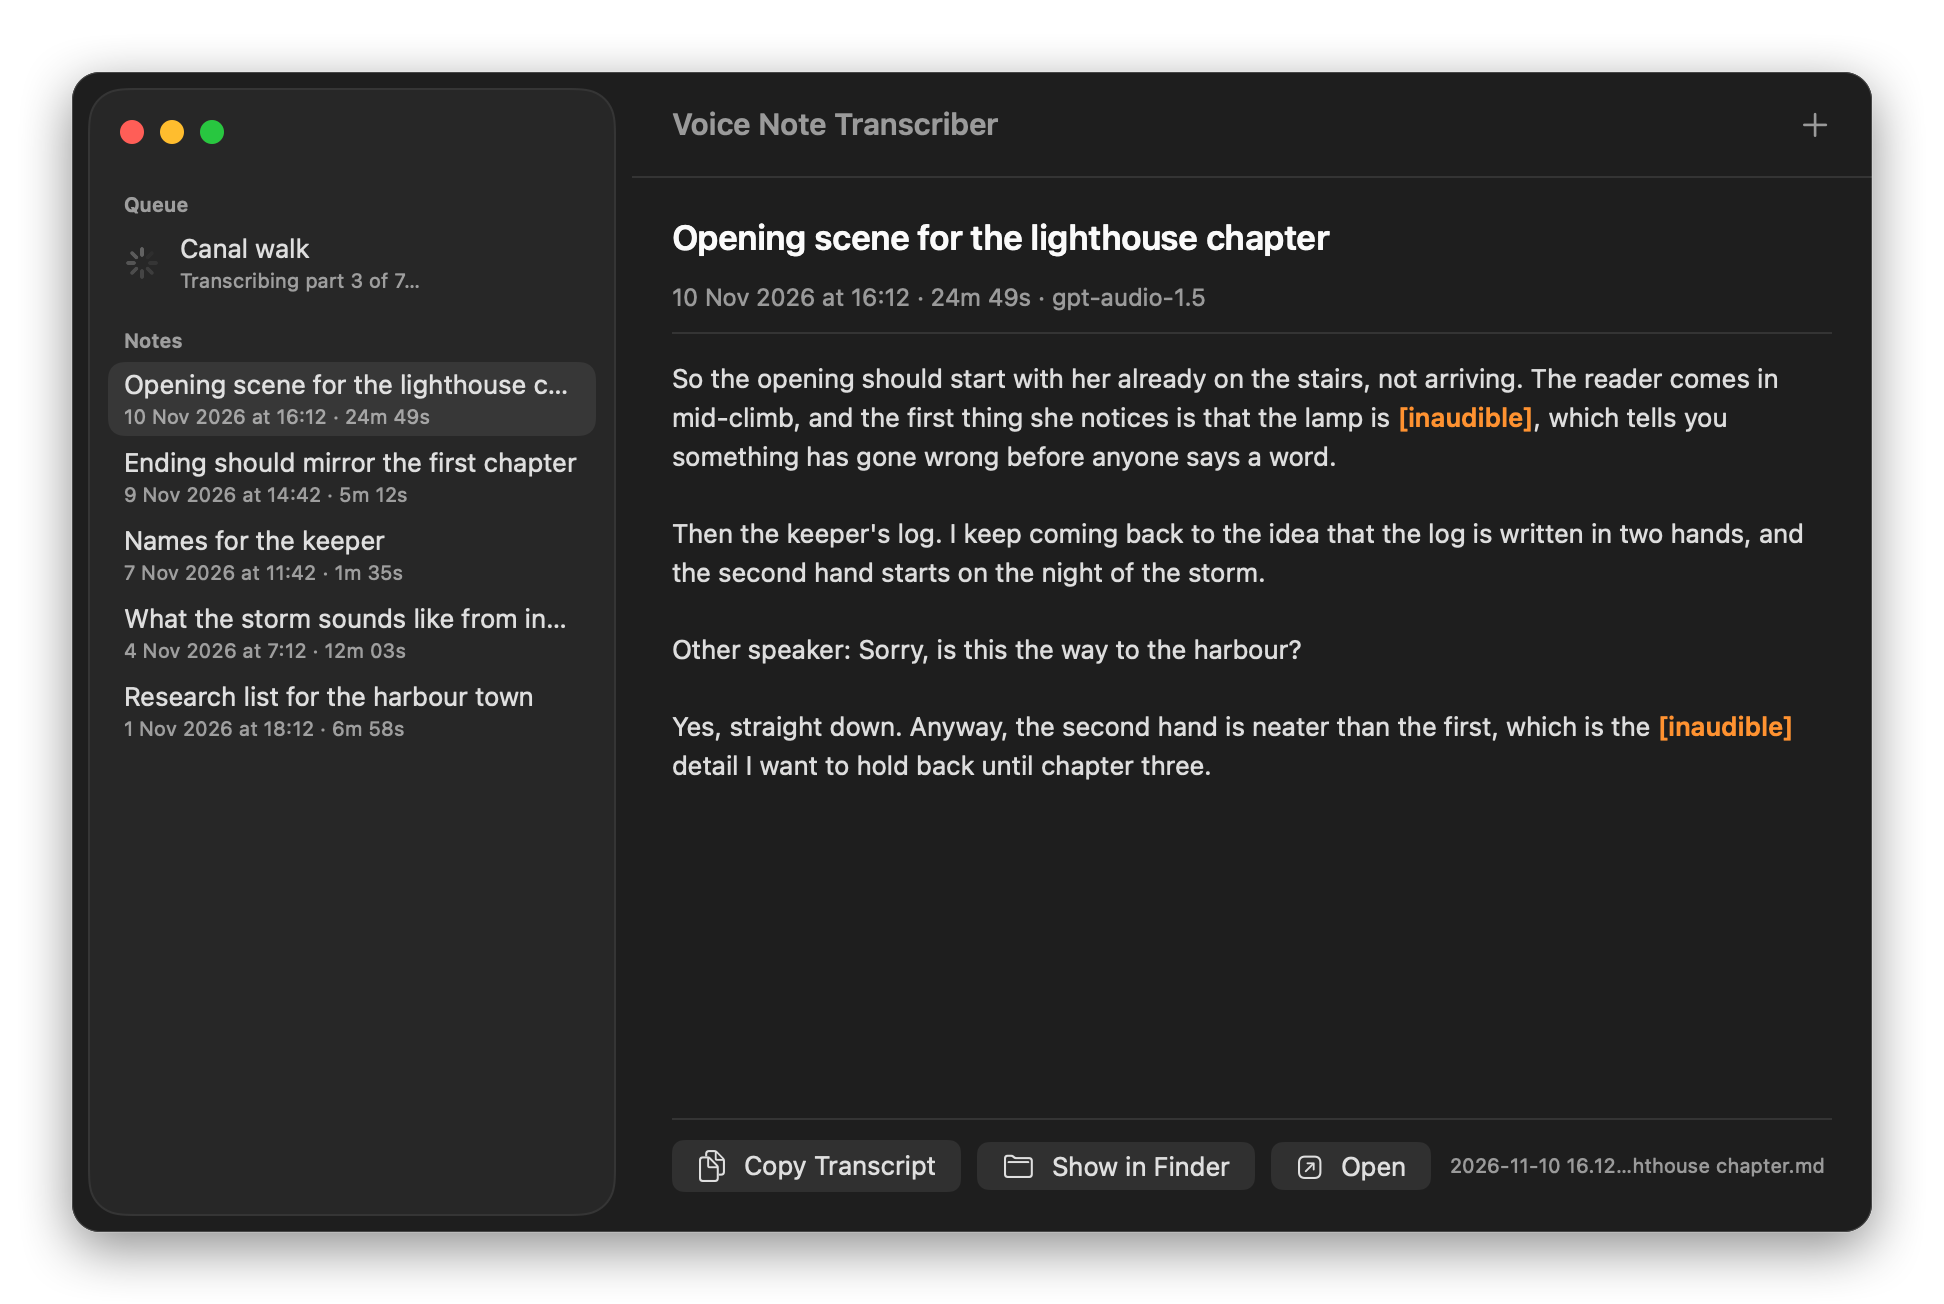
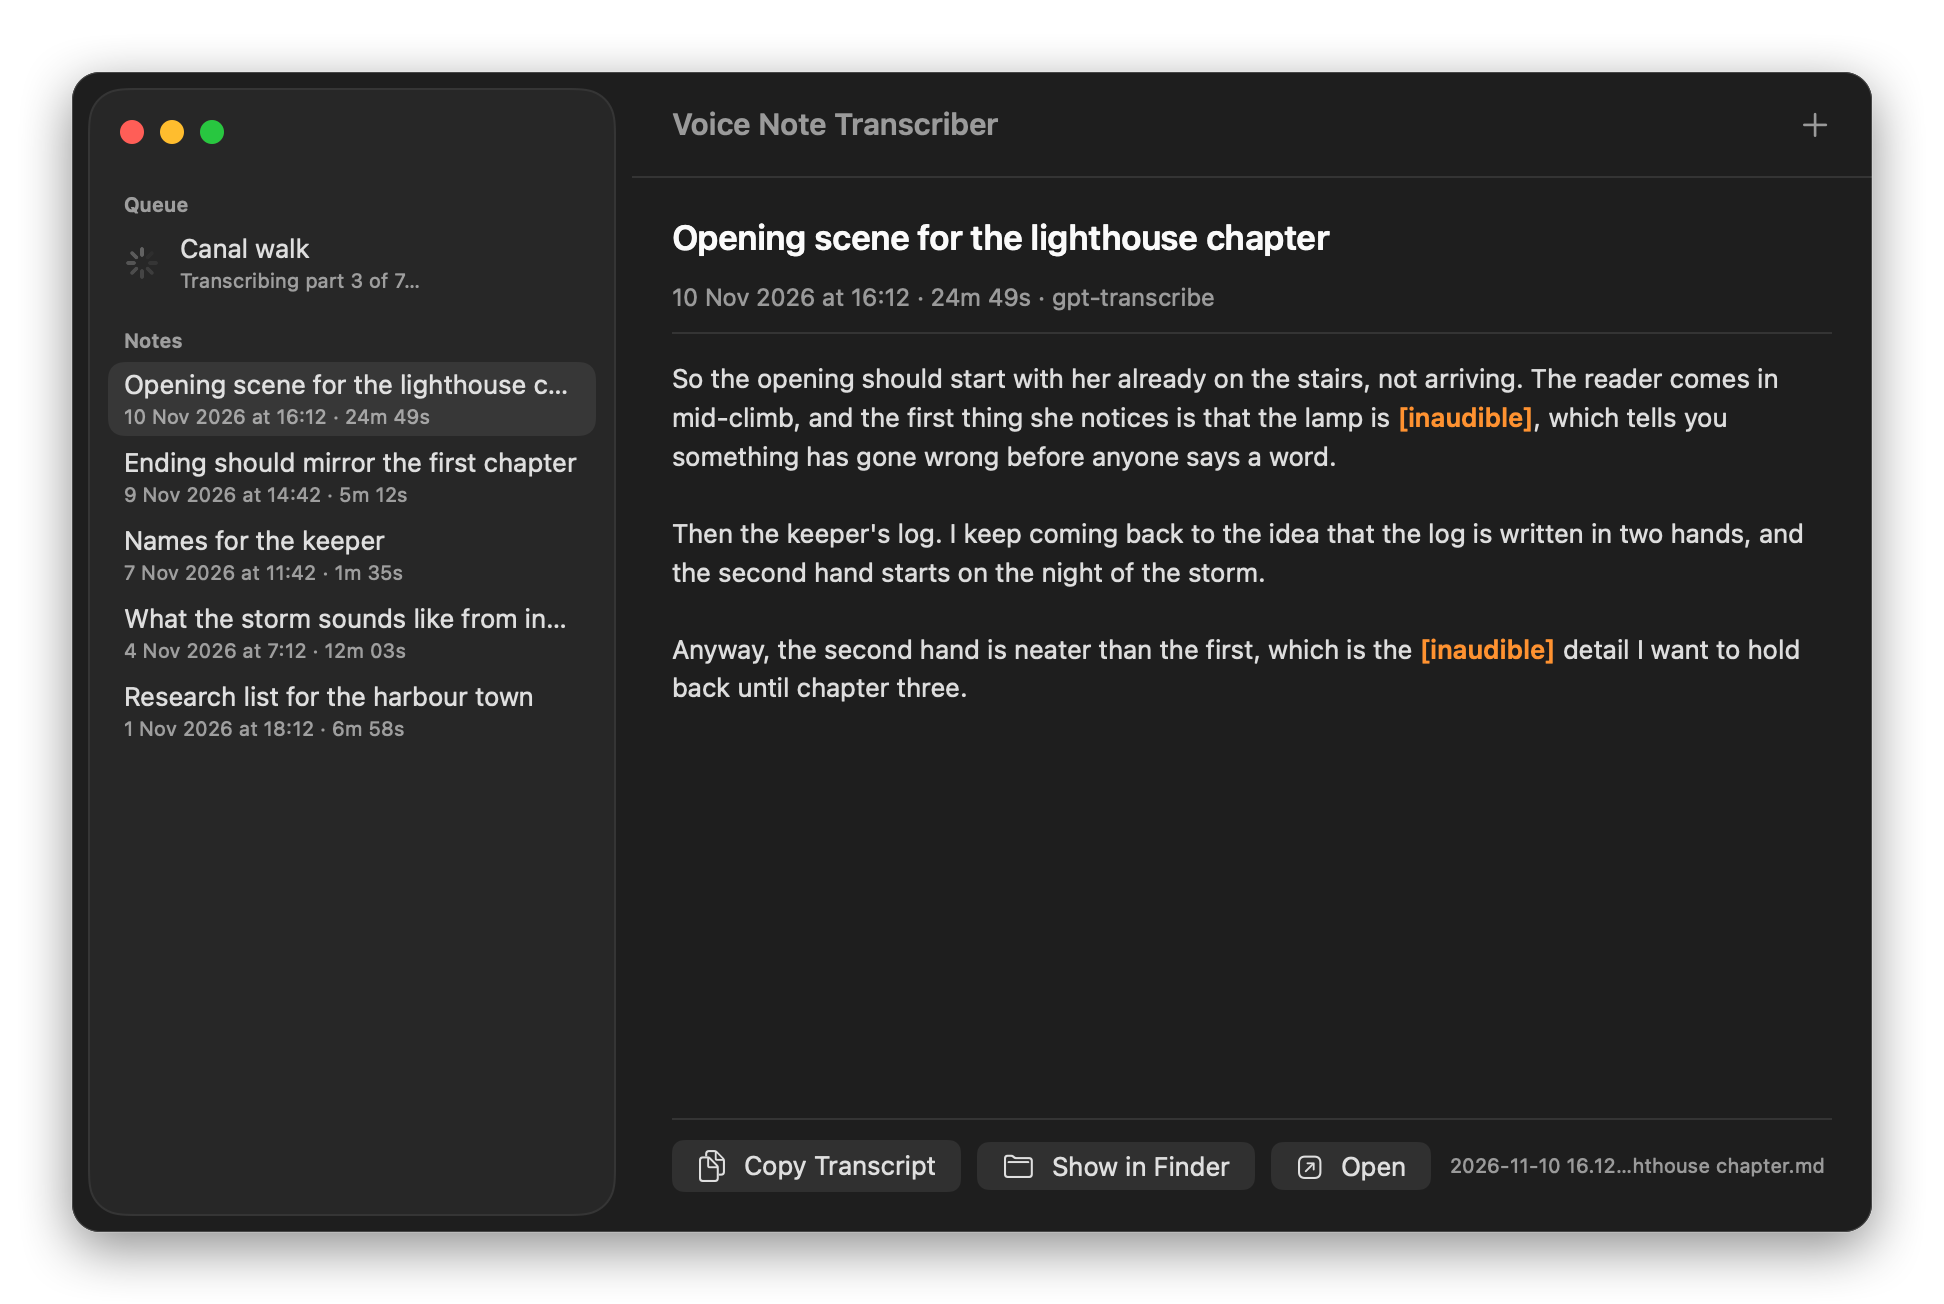
Update the README, design notes and screenshots for gpt-transcribe
Explain how [inaudible] marking works, the strictness levels and why
gpt-audio-1.5 is no longer the default. Sample notes now name
gpt-transcribe and drop the "Other speaker:" line it never writes,
and the Settings screenshots show the new option.

Changed region(s): [[0.3395, 0.4908, 0.9259, 0.6135], [0.5556, 0.2147, 0.6173, 0.2454]]

diff --git a/Sources/VoiceNoteTranscriber/SnapshotRenderer.swift b/Sources/VoiceNoteTranscriber/SnapshotRenderer.swift
@@ -25,7 +25,7 @@ enum SnapshotRenderer {
                              out.appending(path: "note-\(name).png"))
                 await render(EmptyDropView(chooseFiles: {}).environment(queue), appearance, NSSize(width: 640, height: 420),
                              out.appending(path: "drop-\(name).png"))
-                await render(SettingsView().environment(queue), appearance, NSSize(width: 580, height: 740),
+                await render(SettingsView().environment(queue), appearance, NSSize(width: 580, height: 448),
                              out.appending(path: "settings-\(name).png"))
             }
             try? FileManager.default.removeItem(at: samples)
@@ -43,9 +43,7 @@ enum SnapshotRenderer {
 
             Then the keeper's log. I keep coming back to the idea that the log is written in two hands, and the second hand starts on the night of the storm.
 
-            Other speaker: Sorry, is this the way to the harbour?
-
-            Yes, straight down. Anyway, the second hand is neater than the first, which is the [inaudible] detail I want to hold back until chapter three.
+            Anyway, the second hand is neater than the first, which is the [inaudible] detail I want to hold back until chapter three.
             """, 1489, 0),
             ("Ending should mirror the first chapter", "Sample text.", 312, 25.5),
             ("Names for the keeper", "Sample text.", 95, 76.5),
@@ -54,7 +52,7 @@ enum SnapshotRenderer {
         ]
         for sample in samples {
             let metadata = NoteMetadata(recordedAt: now.addingTimeInterval(-sample.hoursAgo * 3_600),
-                                        duration: sample.duration, sourceFileName: "New Recording.m4a", model: "gpt-audio-1.5")
+                                        duration: sample.duration, sourceFileName: "New Recording.m4a", model: "gpt-transcribe")
             _ = try? NoteWriter.write(transcript: sample.text, title: sample.title, metadata: metadata, format: .markdown, to: folder)
         }
         queue.notes = NoteLibrary.load(from: folder)

diff --git a/docs/DESIGN.md b/docs/DESIGN.md
@@ -9,7 +9,8 @@ Voice Note Transcriber.app (SwiftUI)               TranscriberCore (no UI, unit-
 ├─ Drop target: window, Dock icon, Open With       ├─ AudioLoader    any audio → 16 kHz mono PCM
 ├─ TranscriptionQueue: one file at a time ──────▶  ├─ Chunker        split at pauses, ~4-minute parts
 ├─ Sidebar = the notes folder (FolderWatcher)      ├─ WAV            each part → WAV for upload
-└─ Settings: key, model, folder, format, prompt    ├─ OpenAIClient   transcribe each part, write a title
+└─ Settings: key, model, strictness, folder,       ├─ OpenAIClient   transcribe each part, write a title
+   format, prompt                                  ├─ InaudibleMarker doubtful words → [inaudible]
                                                    ├─ Stitcher       join the parts
 transcriber-cli (the same pipeline, in Terminal)   ├─ NoteWriter     details header, file name, rename
                                                    ├─ NoteLibrary    read notes back from the folder
@@ -37,16 +38,32 @@ There are no third-party dependencies: AVFoundation decodes audio, URLSession ta
 
    On a real 24m 49s walking note this gave seven parts, every cut in silence.
 3. **Transcribe.** Each part is encoded as WAV and sent on its own:
-   - `gpt-audio-1.5` (default) gets the part as `input_audio` in a Chat Completions request, with your prompt as the system message and `modalities: ["text"]`.
-   - `gpt-transcribe` uses `/v1/audio/transcriptions`. It's OpenAI's dedicated transcriber: more literal, but it can't follow a prompt, so it won't mark `[inaudible]`.
+   - `gpt-transcribe` (default) uses `/v1/audio/transcriptions` with `include[]=logprobs`, then `InaudibleMarker` replaces the words it wasn't sure of (see below).
+   - `gpt-audio-1.5` gets the part as `input_audio` in a Chat Completions request, with your prompt as the system message and `modalities: ["text"]`.
    - Requests are retried up to three times on rate limits (not on an exhausted quota), server errors and dropped connections, honouring `Retry-After`.
 4. **Join.** `Stitcher` drops parts that came back as `[no speech]` and joins the rest: with a paragraph break if the previous part ended a sentence, or a space if it stopped mid-sentence.
 5. **Title.** `gpt-5-mini` writes a short title from the transcript. If that fails, the audio file's name is used and the note shows a warning.
 6. **Save.** The note is written as `yyyy-MM-dd HH.mm – Title.md` (or `.txt`), with ` (2)` added if the name is taken.
 
+## Marking [inaudible]
+
+`gpt-transcribe` takes no instructions, so it can't be told not to guess. Instead it's asked for the log probability of every token it writes, and the app does the marking:
+
+- A word is a whitespace-separated run of text. Its confidence is the **product** of the probabilities of the tokens that spell its letters and digits, so a made-up word built from several half-sure tokens ("Wondermushly": 0.6 × 0.6 × 0.6…) scores low even when no single token does. Punctuation tokens don't count: being unsure whether to end a sentence isn't being unsure what was said.
+- A word below the threshold for **Mark as [inaudible]** in Settings (Light 30%, Balanced 50%, Strict 70%) becomes `[inaudible]`, keeping its punctuation. Neighbouring doubtful words in the same phrase become one `[inaudible]`, but not across a full stop, comma or line break.
+- The text OpenAI returns has spaces between sentences that the tokens don't, so text and tokens are lined up ignoring whitespace. If they differ in anything else, the tokens' own text is used, because that's what the probabilities describe.
+- Markers the model writes itself, like `[unclear]` or `(inaudible)`, become `[inaudible]`.
+- If the response has no probabilities, the part fails with an error saying so, rather than silently passing on unmarked guesses. **Off** skips all of this.
+
+On a real 22-minute walking note, Balanced marked 47 stretches in 3,356 words.
+
+### Why not gpt-audio-1.5
+
+It was the original default, because it follows a prompt that says "never guess". In testing on that same note it was unreliable: across ten requests, replies came back wrapped in JSON (`{"text": "…"}`), started with stray internal tokens (`<|aesthetics_7|>`), were empty, or covered 141 words of a part that held about 700. Its wording of hard passages also changed from run to run, so it was guessing despite the prompt. It's still selectable for comparison.
+
 ## The prompt
 
-The default prompt (`DefaultPrompt.swift`, editable in Settings) asks for **clean verbatim**:
+Only `gpt-audio-1.5` uses the prompt. The default (`DefaultPrompt.swift`, editable in Settings when that model is selected) asks for **clean verbatim**:
 
 - The speaker's exact words in their order, never paraphrased or corrected.
 - No ums, stutters, repeated words or abandoned false starts.
@@ -66,7 +83,7 @@ Each note starts with a details header. Markdown notes use front matter, which O
 recorded: 2026-11-10 14:32
 duration: 24m 49s
 source: "New Recording 23.m4a"
-model: gpt-audio-1.5
+model: gpt-transcribe
 ---
 
 So the opening should start with her already on the stairs…
@@ -97,10 +114,10 @@ The app is ad-hoc signed when you build it. A locally signed app gets a new sign
 ## Development
 
 ```sh
-swift test                                                       # 15 unit tests
+swift test                                                       # 27 unit tests
 ./install.sh --build-only                                        # test + build ./build/Voice Note Transcriber.app
 swift run -c release transcriber-cli chunks ~/Downloads/note.m4a # where a recording would be split (offline)
-swift run -c release transcriber-cli transcribe ~/Downloads/note.m4a --model gpt-transcribe --out /tmp/notes
+swift run -c release transcriber-cli transcribe ~/Downloads/note.m4a --strictness strict --out /tmp/notes
 swift run -c release transcriber-cli list ~/Documents/Voice\ Notes   # what the sidebar would list
 ./scripts/render-screenshots.sh                                  # re-render docs/images (sample data only)
 ```

diff --git a/README.md b/README.md
@@ -28,8 +28,8 @@
 ## Features
 
 - **Any audio, no converting.** m4a straight from Voice Memos, plus mp3, wav, aiff, caf, aac and the sound from mp4 or mov video.
-- **Never guesses.** Words it can't make out become `[inaudible]`, highlighted so you know where to re-listen.
-- **Clean verbatim.** Your words in your order, without the ums, stutters and false starts. Punctuated, in paragraphs, in British spelling. The prompt is yours to edit.
+- **Never guesses.** Any word OpenAI wasn't sure it heard becomes `[inaudible]`, highlighted so you know where to re-listen. You choose how strict that is.
+- **Clean and complete.** Your words in your order, without the ums and ers. Punctuated, in British spelling.
 - **Long notes are fine.** Recordings are split at natural pauses, transcribed part by part and joined back together, so nothing is cut mid-sentence.
 - **Named for you.** Each note gets a short AI title and its recording date: `2026-11-10 14.32 – Opening scene for the lighthouse chapter.md`. Edit the title to rename the file.
 - **Your folder is the library.** Notes are plain Markdown or text files in a folder you choose. Rename or delete them in Finder and the app keeps up.
@@ -49,7 +49,7 @@ The script checks your setup, runs the tests, builds the app, installs it in `/A
 
 Then add your key:
 
-<img align="right" src="docs/images/settings-light.png" width="300" alt="Settings, with the OpenAI API key, model, notes folder, format and transcription prompt">
+<img align="right" src="docs/images/settings-light.png" width="300" alt="Settings, with the OpenAI API key, model, how strictly to mark [inaudible], notes folder and format">
 
 1. Open **Settings** (⌘,).
 2. Paste your OpenAI API key and click **Save Key**.
@@ -97,7 +97,7 @@ A short details header, then the transcript:
 recorded: 2026-11-10 14:32
 duration: 24m 49s
 source: "New Recording 23.m4a"
-model: gpt-audio-1.5
+model: gpt-transcribe
 ---
 
 So the opening should start with her already on the stairs, not arriving. The reader comes in mid-climb, and the first thing she notices is that the lamp is [inaudible], which tells you something has gone wrong before anyone says a word.
@@ -109,8 +109,9 @@ Plain-text notes have the same details as `Recorded:`, `Duration:`, `Source:` an
 <details>
 <summary><b>Which model should I use?</b></summary>
 
-- **`gpt-audio-1.5`** (the default) follows the prompt, so it writes clean verbatim and marks `[inaudible]` instead of guessing.
-- **`gpt-transcribe`** is OpenAI's dedicated speech-to-text model. It's more literal word for word, but it can't follow instructions, so it won't mark `[inaudible]`.
+- **`gpt-transcribe`** (the default) is OpenAI's dedicated speech-to-text model. It doesn't take instructions, but it reports how sure it is of every word, and the app turns the doubtful ones into `[inaudible]`.
+  **Mark as [inaudible]** in Settings sets the bar: **Light** (words it was under 30% sure of), **Balanced** (under 50%, the default), **Strict** (under 70%) or **Off**.
+- **`gpt-audio-1.5`** follows an editable prompt, including the never-guess rule. In testing it was unreliable: it often wrapped the transcript in JSON, padded it with stray tokens, sent back nothing at all, or skipped most of a part. It's there for comparison, not recommended.
 
 Each note records which model wrote it. Switch in **Settings**.
 </details>
@@ -151,16 +152,16 @@ Choose **Always Allow**. A self-built app gets a new signature each time it's re
 ## How it works
 
 Audio is converted on your Mac to 16 kHz mono. Long recordings are split at natural pauses into parts of about four minutes.
-Each part goes to OpenAI with the transcription prompt, and the parts are joined back together, given a title and saved with a details header.
+Each part goes to OpenAI's speech-to-text model, words it wasn't sure of become `[inaudible]`, and the parts are joined back together, given a title and saved with a details header.
 It's written in Swift with no third-party dependencies.
 
-Read [**docs/DESIGN.md**](docs/DESIGN.md) for the architecture, how the pause detection works, the prompt and the tests.
+Read [**docs/DESIGN.md**](docs/DESIGN.md) for the architecture, how the pause detection and the `[inaudible]` marking work, and the tests.
 
 ## Development
 
 ```sh
 ./install.sh --build-only                                        # test + build ./build/Voice Note Transcriber.app
-swift test                                                       # 15 unit tests
+swift test                                                       # 27 unit tests
 swift run -c release transcriber-cli chunks ~/Downloads/note.m4a # where a recording would be split (offline)
 ./scripts/render-screenshots.sh                                  # re-render the images in docs/images
 ```
